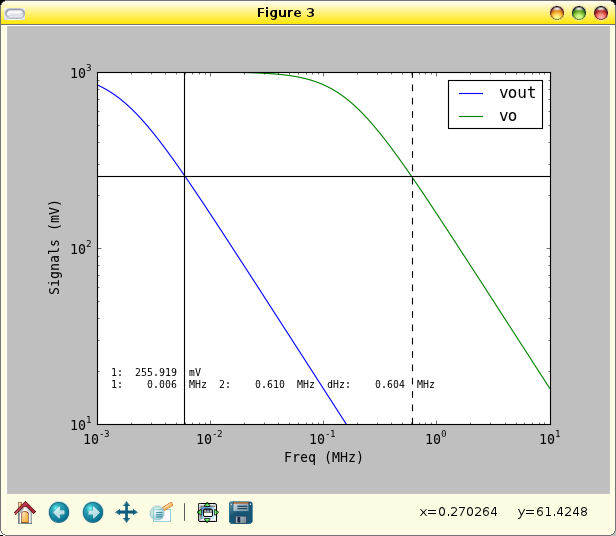
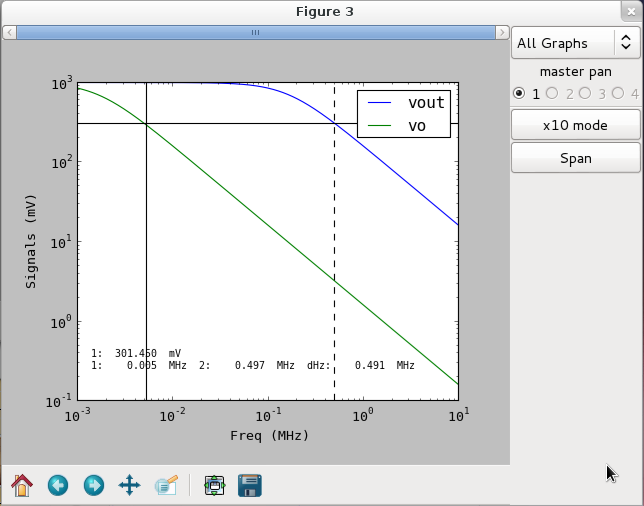
Add description of new features, update screenshots

diff --git a/doc/ioscopy/tex/ioscopy-manual.tex b/doc/ioscopy/tex/ioscopy-manual.tex
@@ -528,7 +528,7 @@ The 'File' menu:
 \item[Quit] Exit ioscopy
 \end{description}
 
-The 'Windows' menu contains the list of the windows, and select one to show it.
+\noindent The 'Windows' menu contains the list of the windows, and select one to show it.
 
 % description des menus
 % description de la liste (+ freeze fichier entier ou signal par signal)
@@ -555,7 +555,12 @@ The 'Windows' menu contains the list of the windows, and select one to show it.
 
 \end{figure}
 
-
+\noindent Available mouse operations:
+\begin{description}
+\item[left] Select signal
+\item[double left] Insert signal in new Figure
+\item[right] Show 'Insert signal' menu
+\end{description}
 
 \subsection{The Figure windows}
 
@@ -575,7 +580,10 @@ Access to most of the ioscopy functionality is possible through this menu:
 \item Range settings (Figure~\ref{fig:range})
 \item Unit settings (Figure~\ref{fig:units})
 \item Scale (Figure~\ref{fig:scale})
-\item Insert Signal (Figure~\ref{fig:insert})
+% Insert Signal not available anymore as per commit 084a6d87:
+% the call to Context.create is delegated to UI. Furthermore, the Graph is
+% not anymore aware of Context's Signals.
+%\item Insert Signal (Figure~\ref{fig:insert})
 \item Remove Signal (Figure~\ref{fig:remove})
 \end{itemize}
 
@@ -588,12 +596,28 @@ For each Graph, cursors are available through keys (Figure~\ref{fig:cursors}):
 \end{itemize}
 The value of each cursor is displayed on the bottom part of the graph, and the difference when both cursors are activated.
 
+\noindent Available mouse operations:
+\begin{description}
+\item[left] In a graph and when 'span' is selected, define region for zooming
+\item[roll] In a graph, Zoom in / Zoom out
+%\item[double left] Insert signal in new Figure
+\item[right] Show 'Contextual signal' menu. Sensitive to position, e.g. Graph-related items are only available when mouse is over a Graph.
+\end{description}
+
+
 \subsubsection{The Operation Bar}
 
 This bar is used to set options for all the Graphs at the same time or for a particular Graph.
 The target Graph is selected through the top-most combo-box.
 \begin{description}
+\item[Master pan] When scroll bars are moved, move also all Graphs with same X unit than selected.
 \item[Zoom x10] When enabled, the graph range is expanded at a x10 scale, keeping the center of the view. When disabled, return to full range. E.g. if the initial range is [6 .. 11] and the data range is [0 .. 20], the x10 range will be [7.5 .. 9.5] and will be [0 .. 20] on disabling.
+\item[Span] When enabled, use mouse--left to zoom in a region of a Graph (Figure~\ref{fig:span}). Region selection is made upon the Figure layout configuration:
+  \begin{description}
+  \item[horizontal] Region is selected on X axis
+  \item[vertical] Region is selected on Y axis
+  \item[quad] Region is selected on both axis
+  \end{description}
 \end{description}
 
 \begin{figure}[htbp]
@@ -613,7 +637,7 @@ The target Graph is selected through the top-most combo-box.
     \label{fig:scale}
   \end{minipage}
 
-  \begin{minipage}{0.45\linewidth}
+  \begin{minipage}{0.95\linewidth}
     \includegraphics[scale=.5]{../png/ioscopy-insert.png}
     \caption{Insert signal menu}
     \label{fig:insert}
@@ -639,6 +663,13 @@ The target Graph is selected through the top-most combo-box.
   \caption{Figure with cursors set (after changing capacitance value of \texttt{demo.sch} and running netlister and simulator}
   \label{fig:cursors}
 
+\end{figure}
+
+\begin{figure}[htbp]
+  \centering
+  \includegraphics[scale=.5]{../png/ioscopy-span.png}
+  \caption{Select region for zooming. Here with horizontal layout.}
+  \label{fig:span}
 \end{figure}
 
 \end{document}
